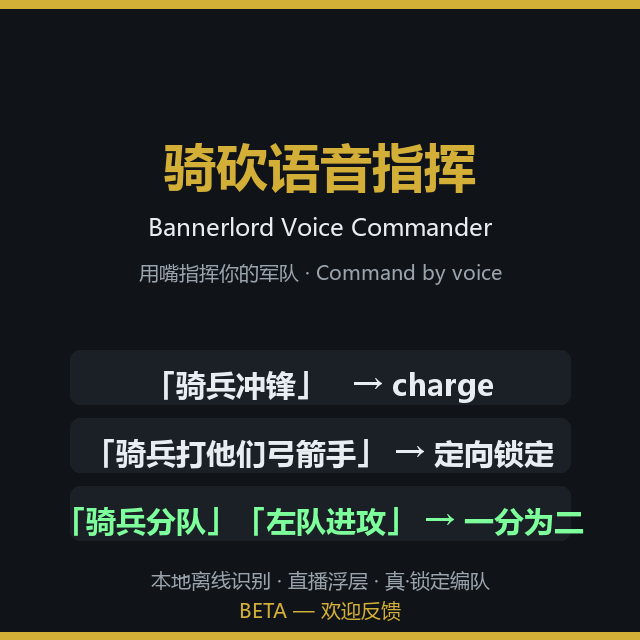
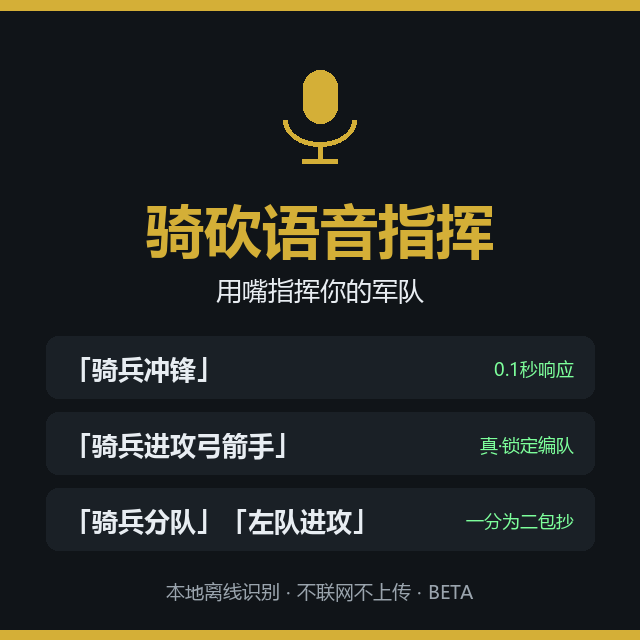
工坊贴图三件套(封面/指令速查/分队示意) + 描述修正为粘贴就绪版(列表项不折行)

diff --git a/tools/make_workshop_art.py b/tools/make_workshop_art.py
@@ -1,0 +1,172 @@
+# -*- coding: utf-8 -*-
+"""生成创意工坊全套贴图: 封面(640x640) + 页面示意图(1280x720 x2)。
+
+风格统一: 深色底 #101418 + 金 #d4af37 + 卡片 #1a2026。不用 emoji(PIL 渲染成方块)。
+用法: .venv\\Scripts\\python tools\\make_workshop_art.py
+产物: assets/workshop_preview.png, assets/art/*.png
+"""
+import os
+
+from PIL import Image, ImageDraw, ImageFont
+
+HERE = os.path.dirname(os.path.abspath(__file__))
+ROOT = os.path.dirname(HERE)
+ART = os.path.join(ROOT, "assets", "art")
+
+BG = (16, 20, 24)
+CARD = (26, 32, 38)
+GOLD = (212, 175, 55)
+FG = (232, 237, 242)
+DIM = (154, 164, 173)
+GREEN = (125, 255, 155)
+RED = (255, 138, 138)
+
+
+def font(name, size):
+    try:
+        return ImageFont.truetype(rf"C:\Windows\Fonts\{name}", size)
+    except OSError:
+        return ImageFont.load_default()
+
+
+def center(d, cx, y, text, fnt, fill):
+    b = d.textbbox((0, 0), text, font=fnt)
+    d.text((cx - (b[2] - b[0]) / 2, y), text, font=fnt, fill=fill)
+    return b[3] - b[1]
+
+
+def mic_icon(d, cx, cy, s, color):
+    """极简麦克风图形 (代替 emoji)。s=整体高度。"""
+    w = s * 0.36
+    d.rounded_rectangle([cx - w / 2, cy - s * 0.5, cx + w / 2, cy + s * 0.05],
+                        radius=int(w / 2), fill=color)
+    d.arc([cx - s * 0.38, cy - s * 0.25, cx + s * 0.38, cy + s * 0.3],
+          start=0, end=180, fill=color, width=max(3, int(s * 0.06)))
+    d.line([cx, cy + s * 0.3, cx, cy + s * 0.45], fill=color,
+           width=max(3, int(s * 0.06)))
+    d.line([cx - s * 0.18, cy + s * 0.45, cx + s * 0.18, cy + s * 0.45],
+           fill=color, width=max(3, int(s * 0.06)))
+
+
+def cover():
+    """封面 640x640。"""
+    W = H = 640
+    img = Image.new("RGB", (W, H), BG)
+    d = ImageDraw.Draw(img)
+    d.rectangle([0, 0, W, 10], fill=GOLD)
+    d.rectangle([0, H - 10, W, H], fill=GOLD)
+
+    mic_icon(d, W / 2, 118, 96, GOLD)
+    center(d, W / 2, 190, "骑砍语音指挥", font("msyhbd.ttc", 58), GOLD)
+    center(d, W / 2, 272, "用嘴指挥你的军队", font("msyh.ttc", 26), FG)
+
+    rows = [("「骑兵冲锋」", "0.1秒响应"),
+            ("「骑兵进攻弓箭手」", "真·锁定编队"),
+            ("「骑兵分队」「左队进攻」", "一分为二包抄")]
+    y = 336
+    f_cmd = font("msyhbd.ttc", 26)
+    f_tag = font("msyh.ttc", 18)
+    for cmd, tag in rows:
+        d.rounded_rectangle([46, y, W - 46, y + 62], radius=12, fill=CARD)
+        d.text((66, y + 15), cmd, font=f_cmd, fill=FG)
+        b = d.textbbox((0, 0), tag, font=f_tag)
+        d.text((W - 66 - (b[2] - b[0]), y + 20), tag, font=f_tag, fill=GREEN)
+        y += 76
+    center(d, W / 2, 578, "本地离线识别 · 不联网不上传 · BETA",
+           font("msyh.ttc", 19), DIM)
+    p = os.path.join(ROOT, "assets", "workshop_preview.png")
+    img.save(p)
+    print("封面:", p)
+
+
+def shot_commands():
+    """示意图1: 指令速查 1280x720。"""
+    W, H = 1280, 720
+    img = Image.new("RGB", (W, H), BG)
+    d = ImageDraw.Draw(img)
+    d.rectangle([0, 0, W, 8], fill=GOLD)
+    center(d, W / 2, 28, "一句话,军队照办 —— 指令速查", font("msyhbd.ttc", 40), GOLD)
+
+    cols = [
+        ("兵种", ["步兵 · 弓箭手", "骑兵 · 骑射", "全军 · 第N队"]),
+        ("机动", ["冲锋 / 出击", "前进 / 后退", "撤退 / 跟我来", "别动 / 回来"]),
+        ("阵型", ["盾墙 / 散开", "圆阵 / 方阵", "三角阵 / 一字排开", "排成一列"]),
+        ("战术", ["自由射击 / 停火", "上马 / 下马", "打他们(集火)", "交给AI"]),
+    ]
+    cw = 284
+    x = 34
+    f_h = font("msyhbd.ttc", 30)
+    f_i = font("msyh.ttc", 25)
+    for title, items in cols:
+        d.rounded_rectangle([x, 100, x + cw, 560], radius=14, fill=CARD)
+        d.rectangle([x, 100, x + cw, 152], fill=(38, 46, 54))
+        center(d, x + cw / 2, 110, title, f_h, GOLD)
+        yy = 176
+        for it in items:
+            center(d, x + cw / 2, yy, it, f_i, FG)
+            yy += 62
+        x += cw + 24
+
+    center(d, W / 2, 596, "组合随意:「弓箭手左队待命」「第五队进攻骑兵」「全军慢慢推进」",
+           font("msyh.ttc", 26), GREEN)
+    center(d, W / 2, 648, "口语也认识: 开干 · 怼上去 · 龟起来 · 别扎堆 · 火力全开",
+           font("msyh.ttc", 24), DIM)
+    p = os.path.join(ART, "shot1_commands.png")
+    img.save(p)
+    print("示意图1:", p)
+
+
+def shot_split():
+    """示意图2: 定向进攻+分队 战场俯视示意 1280x720。"""
+    W, H = 1280, 720
+    img = Image.new("RGB", (W, H), BG)
+    d = ImageDraw.Draw(img)
+    d.rectangle([0, 0, W, 8], fill=GOLD)
+    center(d, W / 2, 28, "定向锁定 · 一分为二 · 左右包抄", font("msyhbd.ttc", 40), GOLD)
+
+    # 敌我阵线示意: 上方敌军两队, 下方我方骑兵分成左右两半
+    def troop(cx, cy, color, label, sub=""):
+        for i in range(3):
+            for j in range(4):
+                d.rectangle([cx - 66 + j * 36, cy - 30 + i * 26,
+                             cx - 46 + j * 36, cy - 12 + i * 26], fill=color)
+        center(d, cx, cy + 58, label, font("msyhbd.ttc", 27), color)
+        if sub:
+            center(d, cx, cy + 94, sub, font("msyh.ttc", 21), DIM)
+
+    troop(380, 170, RED, "敌·弓箭手")
+    troop(900, 170, RED, "敌·骑兵")
+    troop(330, 470, GOLD, "骑兵左队", "= 第三队")
+    troop(950, 470, GOLD, "骑兵右队", "= 第五队")
+
+    # 攻击箭头 (交叉包抄)
+    def arrow(x1, y1, x2, y2):
+        d.line([x1, y1, x2, y2], fill=GREEN, width=7)
+        import math
+        a = math.atan2(y2 - y1, x2 - x1)
+        for da in (2.6, -2.6):
+            d.line([x2, y2, x2 + 26 * math.cos(a + da),
+                    y2 + 26 * math.sin(a + da)], fill=GREEN, width=7)
+
+    arrow(370, 400, 400, 268)
+    arrow(910, 400, 880, 268)
+
+    # 语音气泡
+    d.rounded_rectangle([330, 560, 950, 664], radius=18, fill=CARD)
+    center(d, 640, 574, "「骑兵分队!」", font("msyhbd.ttc", 30), FG)
+    center(d, 640, 616, "「骑兵左队进攻弓箭手!骑兵右队进攻骑兵!」",
+           font("msyhbd.ttc", 28), GREEN)
+    p = os.path.join(ART, "shot2_split.png")
+    img.save(p)
+    print("示意图2:", p)
+
+
+def main():
+    os.makedirs(ART, exist_ok=True)
+    cover()
+    shot_commands()
+    shot_split()
+
+
+if __name__ == "__main__":
+    main()

diff --git a/docs/workshop-description.md b/docs/workshop-description.md
@@ -1,38 +1,30 @@
-# 创意工坊页面描述 (Steam BBCode, 直接整段粘贴进"编辑描述")
+# 创意工坊页面描述 (粘贴就绪版 —— 每个 [*] 独占一行, 不许折行!)
+# 用法: 从 [h1] 那行开始整段复制, 粘进"编辑标题与描述"的描述框, 保存。
 
 [h1]🎙 骑砍语音指挥 — 用嘴指挥你的军队 [BETA][/h1]
 
-对着麦克风喊「骑兵冲锋」,军队立刻执行。本地离线识别(不联网、不上传语音),
-命令约 0.1 秒响应,订阅即用 —— 语音面板随游戏自动启动。
+对着麦克风喊「骑兵冲锋」,军队立刻执行。本地离线识别(不联网、不上传语音),命令约 0.1 秒响应,订阅即用 —— 语音面板随游戏自动启动。
 
 [h2]✨ 核心功能[/h2]
 [list]
-[*][b]全指令语音化[/b]:冲锋 / 前进 / 撤退 / 盾墙 / 散开 / 圆阵方阵三角阵 /
-自由射击 / 停止射击 / 上马下马 / 交给AI……口语随便喊(「开干」「怼上去」
-「龟起来」都认识)
-[*][b]定向进攻[/b]:「骑兵,进攻弓箭手!」—— 我方骑兵真·锁定敌方弓箭手编队
-扑上去(游戏 API 级锁定,不是模拟准星)
+[*][b]全指令语音化[/b]:冲锋 / 前进 / 撤退 / 盾墙 / 散开 / 圆阵方阵三角阵 / 自由射击 / 停止射击 / 上马下马 / 交给AI……口语随便喊,「开干」「怼上去」「龟起来」都认识
+[*][b]定向进攻[/b]:「骑兵,进攻弓箭手!」我方骑兵真·锁定敌方弓箭手编队扑上去(游戏 API 级锁定,不是模拟准星)
 [*][b]看哪打哪[/b]:混战中喊「打他们!」,集火你眼前最近的那支敌军
-[*][b]一分为二[/b]:「骑兵分队」把骑兵劈成两半,然后「骑兵左队进攻弓箭手」
-「第五队跟我」分别指挥,左右包抄一气呵成
-[*][b]战场播报[/b]:每条指令在屏幕顶部快讯横幅 + 左下战斗记录双通道回执,
-谁在打谁一目了然
+[*][b]一分为二[/b]:「骑兵分队」把骑兵劈成两半,然后「骑兵左队进攻弓箭手」「第五队跟我」分别指挥,左右包抄一气呵成
+[*][b]战场播报[/b]:每条指令在屏幕顶部快讯横幅 + 左下战斗记录双通道回执,谁在打谁一目了然
 [/list]
 
 [h2]🧠 它会越用越懂你[/h2]
 [list]
 [*][b]上手校准[/b]:跟读一轮指令,你的口音错听自动学进个人词典
-[*][b]指令复盘 (F11)[/b]:逐条查看"每句话听成了什么、触发了什么",错配当场
-纠正并学习 —— 下次就对了
-[*][b]整活词典[/b]:自定义猎奇指令包(比如把「爸爸打我」映射成全军冲锋),
-一个配置文件热切换,直播整活神器
+[*][b]指令复盘 (F11)[/b]:逐条查看"每句话听成了什么、触发了什么",错配当场纠正并学习 —— 下次就对了
+[*][b]整活词典[/b]:自定义猎奇指令包,一个配置文件热切换,直播整活神器
 [/list]
 
 [h2]🚀 快速上手[/h2]
 [list]
 [*]订阅 → 启动器 Mods 页勾选 BannerlordVoiceLink → 开始游戏
-[*]启动时会有[b]两个弹窗[/b]:「未验证代码」(模组用了本机通信端口)和
-「UAC 管理员授权」(模拟按键需要)—— [b]都点允许,这是正常的[/b]
+[*]启动时会有[b]两个弹窗[/b]:「未验证代码」(模组用了本机通信端口)和「UAC 管理员授权」(模拟按键需要)—— [b]都点允许,这是正常的[/b]
 [*]主菜单出现语音面板后:选好麦克风 → 进战斗开喊
 [*]直播/聊天时按 [b]F12[/b] 暂停识别,防止聊天误触发
 [/list]
@@ -40,74 +32,22 @@
 [h2]💻 配置要求[/h2]
 [list]
 [*]Windows 10/11,任意麦克风
-[*]无显卡也能玩(CPU 模式);有 N 卡可在音频设置里一键下载 CUDA 加速包,
-识别更快更准
+[*]无显卡也能玩(CPU 模式);有 N 卡可在音频设置里一键下载 CUDA 加速包,识别更快更准
 [*]中文指令为主,部分英文指令可用(完整英文支持在路上)
 [/list]
 
 [h2]🔒 隐私[/h2]
-语音识别完全在你本机进行,[b]不联网、不上传任何声音[/b]。
-「语音数据共建」是可选功能(默认关闭):自愿留存自己的指令片段并手动导出
-上传,帮助训练更准的识别模型 —— 开不开完全由你。
+语音识别完全在你本机进行,[b]不联网、不上传任何声音[/b]。「语音数据共建」是可选功能(默认关闭):自愿留存自己的指令片段并手动导出上传,帮助训练更准的识别模型 —— 开不开完全由你。
 
 [h2]🐞 已知事项 (BETA)[/h2]
 [list]
-[*]部分杀毒软件可能对语音程序误报(PyInstaller 打包的通病)—— 项目无恶意
-代码,介意可等后续代码签名版本
+[*]部分杀毒软件可能对语音程序误报(PyInstaller 打包的通病)—— 项目无恶意代码,介意可等后续代码签名版本
 [*]嘈杂环境/重口音下个别指令可能听岔 —— 用 F11 复盘纠错,几次之后明显改善
-[*]遇到问题欢迎评论区反馈,日志在 %LOCALAPPDATA%\BannerlordVoice\logs,
-贴出 app.log 最后一段能极大加速排查
+[*]遇到问题欢迎评论区反馈,日志在 %LOCALAPPDATA%\BannerlordVoice\logs,贴出 app.log 最后一段能极大加速排查
 [/list]
 
 [h2]English[/h2]
-Voice-command your army: fully local speech recognition (offline, ~0.1s),
-true formation targeting ("cavalry, attack their archers"), focus-fire on
-whatever you're looking at ("attack them!"), and troop splitting with
-independent left/right control. Chinese commands are fully supported;
-English command set is partial and improving. Two prompts on launch
-(unverified-code + UAC) are expected — the mod uses a local socket and
-simulated keypresses.
+Voice-command your army: fully local speech recognition (offline, ~0.1s), true formation targeting ("cavalry, attack their archers"), focus-fire on whatever you're looking at, and troop splitting with independent left/right control. Chinese commands are fully supported; English command set is partial and improving. Two prompts on launch (unverified-code + UAC) are expected.
 
 ---
-由主播 [b]巴黎流浪汉赖拉里[/b] 与 AI 结对开发。想看它是怎么被做出来的?
-B 站搜「骑砍2 语音操作」。
-
----
-# 保底版 (万一 h 标签不渲染时用: 只用 [b]+[list], 全平台通吃)
-
-[b]🎙 骑砍语音指挥 — 用嘴指挥你的军队 [BETA][/b]
-
-对着麦克风喊「骑兵冲锋」,军队立刻执行。本地离线识别(不联网、不上传语音),命令约 0.1 秒响应,订阅即用 —— 语音面板随游戏自动启动。
-
-[b]━━ 核心功能 ━━[/b]
-[list]
-[*]全指令语音化:冲锋/前进/撤退/盾墙/散开/各种阵型/自由射击/上马下马/交给AI,口语随便喊(「开干」「怼上去」「龟起来」都认识)
-[*]定向进攻:「骑兵,进攻弓箭手!」真·锁定敌方编队(游戏 API 级,不是模拟准星)
-[*]看哪打哪:混战喊「打他们!」集火你眼前最近的敌军
-[*]一分为二:「骑兵分队」→「骑兵左队进攻弓箭手」「第五队跟我」左右包抄
-[*]战场播报:每条指令顶部横幅+战斗记录双回执,谁在打谁一目了然
-[/list]
-
-[b]━━ 越用越懂你 ━━[/b]
-[list]
-[*]上手校准:跟读一轮,你的口音错听自动学进个人词典
-[*]指令复盘(F11):逐条看"听成了什么、触发了什么",错配当场纠正学习
-[*]整活词典:自定义猎奇指令包(观众打赏解锁新口令),配置热切换
-[/list]
-
-[b]━━ 快速上手 ━━[/b]
-[list]
-[*]订阅 → 启动器 Mods 勾选 BannerlordVoiceLink → 开始游戏
-[*]启动时两个弹窗(未验证代码 + UAC 管理员)都点允许 —— 正常现象,模拟按键需要
-[*]主菜单弹出语音面板 → 选麦克风 → 进战斗开喊;聊天时按 F12 暂停识别
-[/list]
-
-[b]━━ 配置与隐私 ━━[/b]
-[list]
-[*]Windows 10/11 + 任意麦克风;无显卡可玩(CPU 模式),N 卡可选一键下载 CUDA 加速
-[*]识别完全本机进行,不联网不上传;「语音数据共建」默认关闭、完全自愿
-[*]中文为主,部分英文可用;杀软可能误报(打包工具通病,无恶意代码)
-[*]反馈请评论区,日志在 %LOCALAPPDATA%\BannerlordVoice\logs
-[/list]
-
-Voice-command your army: fully local speech recognition (offline, ~0.1s), true formation targeting, focus-fire, troop splitting with left/right control. Chinese fully supported; English partial. Two launch prompts (unverified-code + UAC) are expected.
+由主播 [b]巴黎流浪汉赖拉里[/b] 与 AI 结对开发。想看它是怎么被做出来的?B 站搜「骑砍2 语音操作」。
